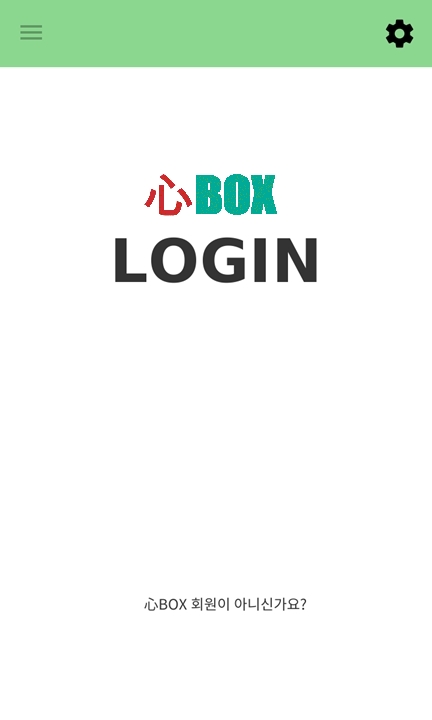
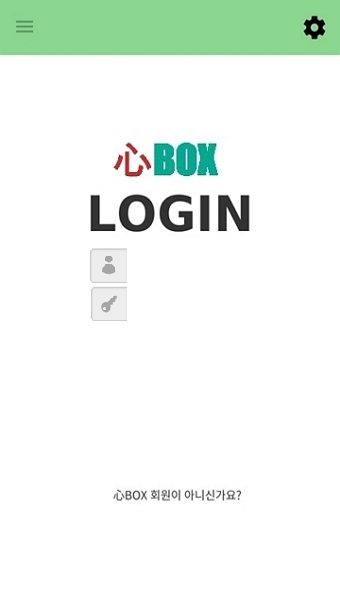
2차 mainPanel 요청

diff --git a/miniProject/src/com/kh/view/login/UserJoin.java b/miniProject/src/com/kh/view/login/UserJoin.java
@@ -16,16 +16,22 @@ import javax.swing.JFrame;
 import javax.swing.JLabel;
 import javax.swing.JPanel;
 import javax.swing.JTextField;
+import javax.swing.SwingConstants;
+
+import java.awt.BorderLayout;
+import java.awt.Color;
 
 public class UserJoin {
 
 	private JFrame frame;
-	private JTextField textField;
-	private JTextField textField_1;
-	private JTextField textField_2;
-	private JTextField textField_3;
-	private JTextField textField_4;
-	private JTextField textField_5;
+	private JTextField name;
+	private JTextField id;
+	private JTextField pw;
+	private JTextField age;
+	private JTextField Height;
+	private JTextField Weight;
+	private JTextField txty;
+	private JButton btnNewButton;
 
 	/**
 	 * Launch the application.
@@ -62,87 +68,78 @@ public class UserJoin {
 		frame.setDefaultCloseOperation(JFrame.EXIT_ON_CLOSE);
 		frame.getContentPane().setLayout(null);
 		
-		ImagePanel panel = new ImagePanel(new ImageIcon("./image/UserJoinPage.png").getImage());
+		ImagePanel panel = new ImagePanel(new ImageIcon("./image/UserJoinPage.jpg").getImage());
 		frame.getContentPane().add(panel);
-
 		
-		File f = new File("./resources/UserJoinpage.jpg");
-		System.out.println(f.exists()?"Exists":"doesnt exists");// 파일 경로 찾기 방법.
+		JTextField textfield = new JTextField();
 		
-		JLabel lblNewLabel = new JLabel("  Name:");
-		lblNewLabel.setBounds(33, 146, 62, 18);
-		frame.getContentPane().add(lblNewLabel);
+		name = new JTextField();
+		name.setBounds(101, 142, 150, 24);
+		frame.getContentPane().add(name);
+		name.setColumns(10);
 		
-		JLabel lblNewLabel_1 = new JLabel("  ID :");
-		lblNewLabel_1.setBounds(45, 187, 34, 18);
-		frame.getContentPane().add(lblNewLabel_1);
+		id = new JTextField();
+		id.setBounds(101, 190, 150, 24);
+		frame.getContentPane().add(id);
+		id.setColumns(10);
 		
-		JLabel lblNewLabel_2 = new JLabel("PWS:");
-		lblNewLabel_2.setBounds(45, 230, 50, 18);
-		frame.getContentPane().add(lblNewLabel_2);
+		pw = new JTextField();
+		pw.setBounds(101, 237, 150, 24);
+		frame.getContentPane().add(pw);
+		pw.setColumns(10);
 		
-		JLabel lblNewLabel_3 = new JLabel("Age :");
-		lblNewLabel_3.setBounds(50, 273, 50, 18);
-		frame.getContentPane().add(lblNewLabel_3);
+		age = new JTextField();
+		age.setBounds(101, 282, 150, 24);
+		frame.getContentPane().add(age);
+		age.setColumns(10);
 		
-		JLabel lblNewLabel_4 = new JLabel("성별 (M / F)");
-		lblNewLabel_4.setBounds(121, 320, 93, 18);
-		frame.getContentPane().add(lblNewLabel_4);
+		Height = new JTextField();
+		Height.setBounds(101, 406, 150, 24);
+		frame.getContentPane().add(Height);
+		Height.setColumns(10);
 		
-		textField = new JTextField();
-		textField.setBounds(101, 144, 131, 24);
-		frame.getContentPane().add(textField);
-		textField.setColumns(10);
+		Weight = new JTextField();
+		Weight.setBounds(101, 477, 150, 24);
+		frame.getContentPane().add(Weight);
+		Weight.setColumns(10);
 		
-		textField_1 = new JTextField();
-		textField_1.setBounds(101, 185, 131, 24);
-		frame.getContentPane().add(textField_1);
-		textField_1.setColumns(10);
 		
-		textField_2 = new JTextField();
-		textField_2.setBounds(101, 228, 131, 24);
-		frame.getContentPane().add(textField_2);
-		textField_2.setColumns(10);
-		
-		textField_3 = new JTextField();
-		textField_3.setBounds(101, 270, 131, 24);
-		frame.getContentPane().add(textField_3);
-		textField_3.setColumns(10);
-		
-		textField_4 = new JTextField();
-		textField_4.setBounds(101, 425, 131, 24);
-		frame.getContentPane().add(textField_4);
-		textField_4.setColumns(10);
-		
-		textField_5 = new JTextField();
-		textField_5.setBounds(101, 477, 131, 24);
-		frame.getContentPane().add(textField_5);
-		textField_5.setColumns(10);
 		
 		JLabel lblNewLabel_7 = new JLabel("회원 정보를 입력하세요");
 		lblNewLabel_7.setFont(new Font("굴림", Font.PLAIN, 18));
 		lblNewLabel_7.setBounds(79, 74, 209, 36);
 		frame.getContentPane().add(lblNewLabel_7);
 		
-		JButton btnNewButton_2 = new JButton("확인");
-		btnNewButton_2.setBounds(121, 513, 93, 27);
-		frame.getContentPane().add(btnNewButton_2);
+		JCheckBox chckbxNewCheckBox_M = new JCheckBox("남자");
+		chckbxNewCheckBox_M.setBounds(103, 343, 56, 23);
+		frame.getContentPane().add(chckbxNewCheckBox_M);
 		
-		JCheckBox chckbxNewCheckBox = new JCheckBox("남(M)");
-		chckbxNewCheckBox.setBounds(94, 369, 73, 27);
-		frame.getContentPane().add(chckbxNewCheckBox);
+		JCheckBox chckbxNewCheckBox_F = new JCheckBox("여자");
+		chckbxNewCheckBox_F.setBounds(187, 343, 64, 23);
+		frame.getContentPane().add(chckbxNewCheckBox_F);
 		
-		JCheckBox chckbxNewCheckBox_1 = new JCheckBox("여(F)");
-		chckbxNewCheckBox_1.setBounds(191, 369, 82, 27);
-		frame.getContentPane().add(chckbxNewCheckBox_1);
+		txty = new JTextField();
+		txty.setText("성 별 (Y / N)");
+		txty.setBounds(111, 316, 116, 21);
+		frame.getContentPane().add(txty);
+		txty.setColumns(10);
 		
-		JButton btnNewButton = new JButton("중복확인");
-		btnNewButton.addActionListener(new ActionListener() {
+		JButton btnNewButton_1 = new JButton("가입 완료");
+		btnNewButton_1.addActionListener(new ActionListener() {
 			public void actionPerformed(ActionEvent arg0) {
+				
+				frame.getContentPane().add(textfield, BorderLayout.CENTER);
+				
+				
+				
+				System.out.println("가입완료되었습니다 ");
 			}
 		});
+		btnNewButton_1.setBounds(130, 511, 97, 23);
+		frame.getContentPane().add(btnNewButton_1);
 		
-		btnNewButton.setBounds(244, 183, 89, 27);
+		btnNewButton = new JButton("중복확인");
+		btnNewButton.setBounds(248, 189, 90, 24);
 		frame.getContentPane().add(btnNewButton);
 	}
 }

diff --git a/miniProject/src/com/kh/view/login/CIMDesign.java b/miniProject/src/com/kh/view/login/CIMDesign.java
@@ -20,8 +20,8 @@ import javax.swing.JTextField;
 public class CIMDesign {
 
 	private JFrame frame;
-	private JTextField textField;
 	private JPasswordField passwordField;
+	private JPasswordField passwordField_1;
 
 	/**
 	 * Launch the application.
@@ -58,7 +58,7 @@ public class CIMDesign {
 		frame.getContentPane().setLayout(null);
 		
 		ImagePanel panel = new ImagePanel(new ImageIcon("./image/LoginPage.jpg").getImage());
-		frame.add(panel);
+		frame.getContentPane().add(panel);
 	
 		
 		
@@ -84,26 +84,21 @@ public class CIMDesign {
 				}
 			
 		});
-		btnNewButton.setBounds(146, 296, 70, 34);
-		frame.add(btnNewButton);
-		
-		textField = new JTextField();
-		textField.setBounds(136, 216, 116, 24);
-		frame.add(textField);
-		textField.setColumns(10);
+		btnNewButton.setBounds(129, 334, 70, 34);
+		frame.getContentPane().add(btnNewButton);
 		
 		JLabel lblNewLabel = new JLabel("Login : ");
-		lblNewLabel.setBounds(86, 204, 166, 49);
-		frame.add(lblNewLabel);
+		lblNewLabel.setBounds(56, 256, 51, 24);
+		frame.getContentPane().add(lblNewLabel);
 		
 		JLabel lblNewLabel_1 = new JLabel("PW : ");
 		JPasswordField txtPass = new JPasswordField(10);
-		lblNewLabel_1.setBounds(97, 254, 62, 18);
-		frame.add(lblNewLabel_1);
+		lblNewLabel_1.setBounds(68, 293, 37, 18);
+		frame.getContentPane().add(lblNewLabel_1);
 		
 		passwordField = new JPasswordField();
-		passwordField.setBounds(136, 251, 116, 24);
-		frame.add(passwordField);
+		passwordField.setBounds(128, 287, 127, 35);
+		frame.getContentPane().add(passwordField);
 		
 		JButton btnNewButton_1 = new JButton("회원가입");
 		btnNewButton_1.addActionListener(new ActionListener() {
@@ -112,7 +107,11 @@ public class CIMDesign {
 			}
 		});
 		btnNewButton_1.setBounds(111, 514, 105, 27);
-		frame.add(btnNewButton_1);
+		frame.getContentPane().add(btnNewButton_1);
+		
+		passwordField_1 = new JPasswordField();
+		passwordField_1.setBounds(128, 248, 127, 35);
+		frame.getContentPane().add(passwordField_1);
 	}
 }
 class ImagePanel extends JPanel{
